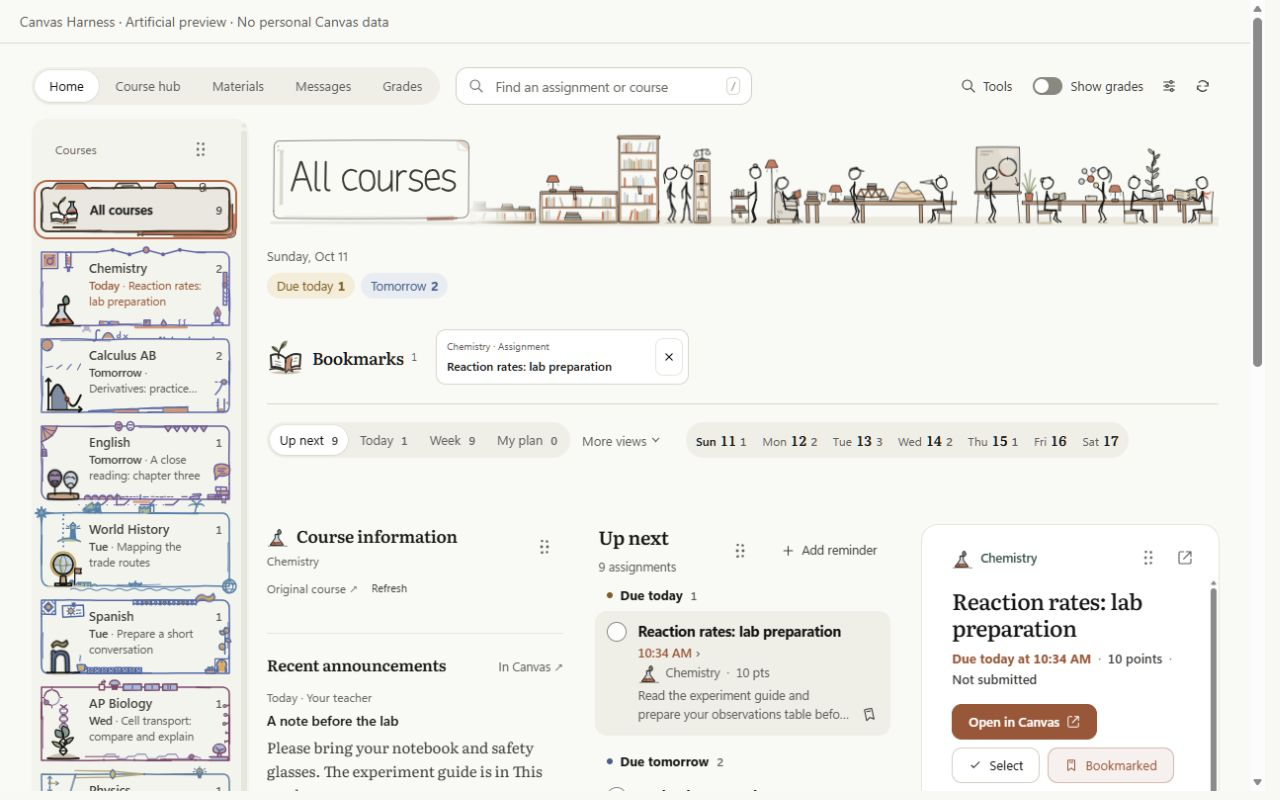
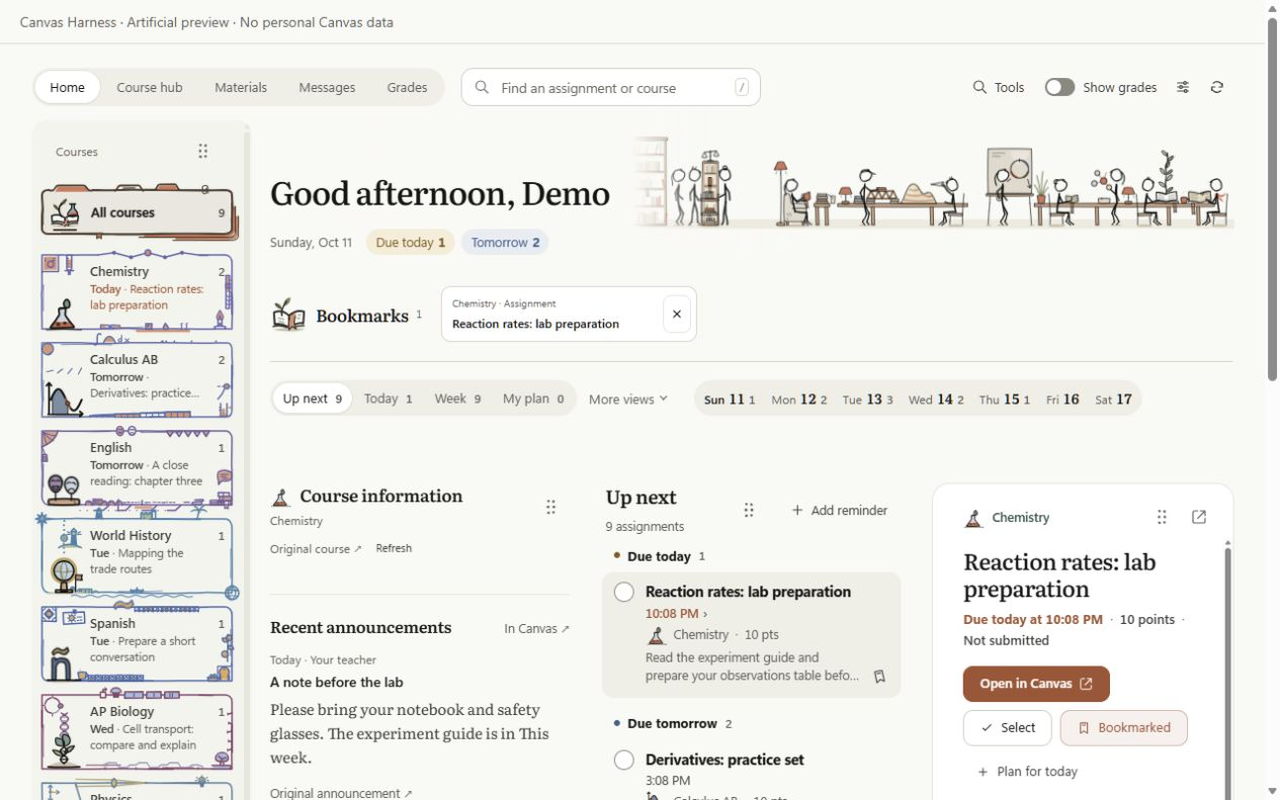
Restore time-of-day overview greetings while keeping illustrated course titles

diff --git a/extension/popup.html b/extension/popup.html
@@ -1,2 +1,2 @@
 <!doctype html><html lang="en"><head>
-<meta name="author" content="Flzsh"><meta charset="UTF-8"><meta name="viewport" content="width=device-width,initial-scale=1"><title>Canvas Harness</title><link rel="stylesheet" href="popup.css"></head><body><header><img src="icon.svg" width="42" height="42" alt=""><div><h1>Canvas Harness</h1><p>Canvas, within reach.</p></div></header><p class="intro">Direct links to your assignments, grades, and course files. Planning tools are there when you need them.</p><label class="school-url">Canvas address<input id="school-url" type="url" placeholder="https://your-school.instructure.com" autocomplete="url" spellcheck="false"></label><button id="open">Open Canvas dashboard ↗</button><button id="canvas" class="secondary">Open original Canvas</button><label><input id="enabled" type="checkbox"> Enable Canvas Harness on Canvas</label><p id="status" role="status">Changes apply after reloading Canvas.</p><details class="native-appearance"><summary>Canvas page appearance</summary><label>Theme<select data-native="theme" disabled><option value="original">Canvas original</option><option value="light">Light</option></select></label><label>Reading width<select data-native="readingWidth" disabled><option value="comfortable">Comfortable</option><option value="full">Full width</option></select></label><label>Assignment text<select data-native="textSize" disabled><option value="standard">Standard</option><option value="large">Larger</option></select></label><label>Link accent<select data-native="accent" disabled><option value="clay">Clay</option><option value="forest">Forest</option><option value="indigo">Iris</option><option value="ocean">Ocean</option><option value="rose">Rose</option><option value="amber">Amber</option></select></label><p>Choose Light to apply these choices. Saved for Canvas on this device. Teacher documents keep their colors.</p></details><button id="reload-extension" class="secondary">Reload Canvas Harness</button><p class="intro">After reloading the extension, refresh Canvas to activate the update.</p><footer>Canvas Harness 2.21.0<br>Notes stay in this browser. Back them up in Settings.</footer><script src="site.js"></script><script src="native-appearance.js"></script><script src="native-page.js"></script><script src="popup.js"></script></body></html>
+<meta name="author" content="Flzsh"><meta charset="UTF-8"><meta name="viewport" content="width=device-width,initial-scale=1"><title>Canvas Harness</title><link rel="stylesheet" href="popup.css"></head><body><header><img src="icon.svg" width="42" height="42" alt=""><div><h1>Canvas Harness</h1><p>Canvas, within reach.</p></div></header><p class="intro">Direct links to your assignments, grades, and course files. Planning tools are there when you need them.</p><label class="school-url">Canvas address<input id="school-url" type="url" placeholder="https://your-school.instructure.com" autocomplete="url" spellcheck="false"></label><button id="open">Open Canvas dashboard ↗</button><button id="canvas" class="secondary">Open original Canvas</button><label><input id="enabled" type="checkbox"> Enable Canvas Harness on Canvas</label><p id="status" role="status">Changes apply after reloading Canvas.</p><details class="native-appearance"><summary>Canvas page appearance</summary><label>Theme<select data-native="theme" disabled><option value="original">Canvas original</option><option value="light">Light</option></select></label><label>Reading width<select data-native="readingWidth" disabled><option value="comfortable">Comfortable</option><option value="full">Full width</option></select></label><label>Assignment text<select data-native="textSize" disabled><option value="standard">Standard</option><option value="large">Larger</option></select></label><label>Link accent<select data-native="accent" disabled><option value="clay">Clay</option><option value="forest">Forest</option><option value="indigo">Iris</option><option value="ocean">Ocean</option><option value="rose">Rose</option><option value="amber">Amber</option></select></label><p>Choose Light to apply these choices. Saved for Canvas on this device. Teacher documents keep their colors.</p></details><button id="reload-extension" class="secondary">Reload Canvas Harness</button><p class="intro">After reloading the extension, refresh Canvas to activate the update.</p><footer>Canvas Harness 2.21.1<br>Notes stay in this browser. Back them up in Settings.</footer><script src="site.js"></script><script src="native-appearance.js"></script><script src="native-page.js"></script><script src="popup.js"></script></body></html>

diff --git a/extension/dashboard-view.js b/extension/dashboard-view.js
@@ -187,9 +187,10 @@ if(typeof module==='object'&&module.exports&&!globalThis.ReserveSite)require('./
   // The course name as artwork (2.17): where the course's subject has a title piece and its title is the name the
   // piece spells (course-art.js titled(): never a renamed course), the piece stands at the band's left, as tall as
   // the band, and the detail line and chips sit under its floor (refresh.css 4.2). Its frame is the heading's last
-  // child and the h1 stays in the page, hidden only visually and only where the piece shows. All courses has none.
+  // child and the h1 stays in the page, hidden only visually and only where the piece shows.
+  // All courses keeps its time-based greeting unless the student explicitly supplies overview title artwork.
   function headingLinks(course){const href=(globalThis.ReserveSite.origin()+"/courses/")+course.id;return `<span class="rd-heading-links"><a class="rd-course-cover" href="${href}" title="${E(course.name)} in Canvas">Canvas home <span aria-hidden="true">↗</span></a><span aria-hidden="true"> · </span><a href="${href}/modules">Modules</a><span aria-hidden="true"> · </span><a href="${href}/assignments">Assignments</a></span>`;}
-  function heading(){const course=state.courseId==='all'?null:c.courseMap.get(state.courseId)||null,line=detail(course),hello=course?'':greeting(),nameArt=course||overviewArt,named=nameArt&&art?.titleFrame?art.titleFrame(nameArt,{place:'heading'}):'';return `<div class="rd-workspace-heading" data-rd-key="heading"${course?` style="${tone(course.color)}"`:''}><div class="rd-course-heading"${named?` data-titled="true" style="${art.titleStyle?.(nameArt)||''}"`:''}><span class="rd-heading-art" aria-hidden="true">${scene(course||overviewArt,'heading')}</span><h1${course?` title="${E(full(course))}"`:''}>${course?unbreak(E(short(course))):hello?`${E(hello)}<span class="rd-sr-only"> — your work</span>`:'Your work'}</h1>${workCourseFilter()}<p>${line?`<span class="rd-heading-detail">${E(line)}</span><span aria-hidden="true"> · </span>`:''}<span class="rd-heading-date">${E(formatDate(c.now,c.s.timeZone,{weekday:'long',month:'short',day:'numeric'}))}</span>${course?`<span aria-hidden="true"> · </span>${headingLinks(course)}`:''}</p>${glance()}${named}</div>${search}</div>`;}
+  function heading(){const course=state.courseId==='all'?null:c.courseMap.get(state.courseId)||null,line=detail(course),hello=course?'':greeting(),overviewTitle=overviewArt.artPrefs?.titleArt||(overviewArt.artPrefs?.bannerArt&&overviewArt.artPrefs?.titlePlacement==='banner'),nameArt=course||(overviewTitle?overviewArt:null),named=nameArt&&art?.titleFrame?art.titleFrame(nameArt,{place:'heading'}):'';return `<div class="rd-workspace-heading" data-rd-key="heading"${course?` style="${tone(course.color)}"`:''}><div class="rd-course-heading"${named?` data-titled="true" style="${art.titleStyle?.(nameArt)||''}"`:''}><span class="rd-heading-art" aria-hidden="true">${scene(course||overviewArt,'heading')}</span><h1${course?` title="${E(full(course))}"`:''}>${course?unbreak(E(short(course))):hello?`${E(hello)}<span class="rd-sr-only"> — your work</span>`:'Your work'}</h1>${workCourseFilter()}<p>${line?`<span class="rd-heading-detail">${E(line)}</span><span aria-hidden="true"> · </span>`:''}<span class="rd-heading-date">${E(formatDate(c.now,c.s.timeZone,{weekday:'long',month:'short',day:'numeric'}))}</span>${course?`<span aria-hidden="true"> · </span>${headingLinks(course)}`:''}</p>${glance()}${named}</div>${search}</div>`;}
   // These controls belong to pane headers. Teacher links and selected text remain untouched.
   function layoutTools(key){return root.ReserveWorkspaceArrange?.controls(key)||'';}
   function arrangeGuide(){return `<div class="rd-arrange-guide" data-rd-key="arrange-guide" data-open="${!!c.arrangeOpen}"><span id="rd-move-help" class="rd-sr-only">Hold a heading or course to move it. Move across another panel to swap; move to its top or bottom to stack. Space on a heading grip, or Alt+Space on a course, picks it up. Arrows choose a place. Tab chooses another panel. Enter places; Escape cancels.</span><div>${c.hasLayoutUndo?action('arrange-undo','Undo move','','rd-text-button'):''}${c.s.showCourseInformation===false?action('arrange-restore','Show course information','','rd-text-button'):''}</div></div>`;}

diff --git a/extension/responsive-layout.css b/extension/responsive-layout.css
@@ -424,6 +424,22 @@
   }
 }
 
+/* An overview greeting does not repeat the Course selector's label. Keep it
+   visible when tablet layout or a dock replaces the rail with that selector.
+   Individual course headings have a title attribute; overview greetings do not. */
+.rd[data-workspace=work] .rd-workspace-heading > .rd-course-heading:not([data-titled]) > h1:not([title]) {
+  position: relative;
+  width: auto;
+  height: auto;
+  margin: 0;
+  padding: 0;
+  overflow: visible;
+  clip: auto;
+  clip-path: none;
+  white-space: normal;
+  border: 0;
+}
+
 /* The search should not cost a second narrow text column, and the title piece
    is allowed to use the header width at phone sizes. The existing drawer,
    keyboard focus rules and SVG animation settings remain in charge. */

diff --git a/README.md b/README.md
@@ -46,7 +46,7 @@ Circles select items. **Archive** marks selected assignments done locally; **Boo
 
 ## Make the artwork yours
 
-Canvas Harness automatically matches course names and familiar codes to **22 subject presets**. They cover mathematics, sciences, English, writing, reading, languages, and history, with AP science and Calculus AB/BC variants. Unfamiliar subjects receive a general illustration and a simple sketched outline. Names without matching title artwork receive a reusable illustrated label, including renamed courses and All courses.
+Canvas Harness automatically matches course names and familiar codes to **22 subject presets**. They cover mathematics, sciences, English, writing, reading, languages, and history, with AP science and Calculus AB/BC variants. Unfamiliar subjects receive a general illustration and a simple sketched outline. Individual courses without matching title artwork receive a reusable illustrated label with their displayed course name. All courses welcomes you with a greeting that changes with the time of day, beside its overview artwork.
 
 Upload animated SVG banners, icons, borders, and custom titles for individual courses or All courses. Your uploads take priority over the bundled artwork.
 
@@ -61,7 +61,7 @@ The included [artwork skill](skills/canvas-harness-art/SKILL.md) helps an AI ass
 
 Try the [astronomy example pack](skills/canvas-harness-art/examples/astronomy/astronomy.chpack) by mapping it to a course in the preview before applying. Quick Upload bundles banners, icons, and borders. If the banner includes its drawn name, choose **Course artwork → Course title → Already drawn in banner** to avoid a second title over it. Separate title SVGs use the individual uploader.
 
-Download the [artwork skill ZIP](https://github.com/Flzsh/canvas-harness/releases/download/v2.21.0/Canvas-Harness-Art-Skill-2.21.0.zip), or use its folder in the repository. It is separate from the extension install ZIP. See [Themes and artwork](docs/THEMES.md) for the complete workflow, motion controls, and upload limits.
+Download the [artwork skill ZIP](https://github.com/Flzsh/canvas-harness/releases/download/v2.21.1/Canvas-Harness-Art-Skill-2.21.1.zip), or use its folder in the repository. It is separate from the extension install ZIP. See [Themes and artwork](docs/THEMES.md) for the complete workflow, motion controls, and upload limits.
 
 ## Move courses and panels directly
 

diff --git a/docs/TESTING.md b/docs/TESTING.md
@@ -1,6 +1,6 @@
-# Release checks — Canvas Harness 2.21.0
+# Release checks — Canvas Harness 2.21.1
 
-The public suite passes **498 tests**, with no failures. The standard command skips two optional isolated browser tests. JavaScript syntax, manifest resources, icon dimensions, package contents, and the artwork skill's 27 pack-format cases also pass.
+The public suite passes **499 tests**, with no failures. The standard command skips two optional isolated browser tests. JavaScript syntax, manifest resources, icon dimensions, package contents, and the artwork skill's 27 pack-format cases also pass.
 
 These checks include account and school separation; selected-only AI context; queued saves and archive Undo; repeated Send, permission denial, cancellation and late completion; bounded PDF processing; Quick Upload validation, mapping, atomic Apply and guarded Undo; bookmarks; GPA rules; layout persistence; hold delay, cancellation, sideways swaps, stacking, and preservation of a moving course's frame.
 
@@ -9,6 +9,7 @@ These checks include account and school separation; selected-only AI context; qu
 The public preview uses artificial courses, assignments and grades. An Edge walkthrough checked:
 
 - Illustrated titles and banners at 320, 390, 800, 1280, 1920, 2560 and 3840 CSS pixels, without horizontal overflow.
+- The restored All courses greeting at 390, 800, 1280 and 1920 CSS pixels. Time-zone tests cover morning, afternoon, evening and late-night greetings; individual course names and uploaded overview titles remain intact.
 - Assignment-first reading order on narrow screens, and full banner width on large screens.
 - Bookmark visibility in All courses and the corresponding subject.
 - The Tools dock beside coursework and an actual loaded Desmos graphing calculator.

diff --git a/INSTALL.md b/INSTALL.md
@@ -1,10 +1,10 @@
-# Install Canvas Harness 2.21.0
+# Install Canvas Harness 2.21.1
 
 Canvas Harness is a browser extension for your signed-in Canvas courses, assignments, bookmarks, artwork and study tools. It is designed for desktop Chrome and Edge.
 
 ## Install in desktop Chrome or Edge
 
-1. Download a **Canvas-Harness-2.21.0.zip** package from [GitHub Releases](https://github.com/Flzsh/canvas-harness/releases) if one is available, or download the [source repository](https://github.com/Flzsh/canvas-harness).
+1. Download a **Canvas-Harness-2.21.1.zip** package from [GitHub Releases](https://github.com/Flzsh/canvas-harness/releases) if one is available, or download the [source repository](https://github.com/Flzsh/canvas-harness).
 2. Extract the download to a folder you will keep. For the packaged extension, use its extracted folder containing `manifest.json`. For a source-repository download, use its `extension` subfolder.
 3. Open `chrome://extensions` or `edge://extensions` in the browser.
 4. Turn on **Developer mode**, choose **Load unpacked**, and select the folder containing `manifest.json`.

diff --git a/docs/THEMES.md b/docs/THEMES.md
@@ -20,7 +20,7 @@ Use **Show grades** separately when you want grades visible. Leaving it off hide
 
 The 22 automatic subject presets match familiar course names and codes. When a course has no matching subject preset, it uses a general illustration and a single sketched frame. If its displayed name has no matching title drawing, a generic illustrated label preserves that name.
 
-All courses has its own overview artwork. Uploaded course artwork takes priority.
+All courses keeps its time-of-day greeting beside the overview artwork. Generic illustrated labels are used for individual course names. An explicitly uploaded overview title takes priority; uploading only an overview banner keeps the greeting.
 
 Choose **Living drawings → Off** to stop the bundled drawings' ongoing ambient movement. Motion settings also control transitions and reveals; the animation-off and reduced-motion paths use static artwork. Imported drawings retain their own palette. Choose artwork with readable contrast against the paper surface.
 

diff --git a/docs/store/README.md b/docs/store/README.md
@@ -12,7 +12,7 @@ Use a public publisher name such as **Flzsh**. Check which contact details each 
 ## Upload
 
 - Run `npm test`, `npm run check`, and `npm run build` from the repository.
-- Upload `dist/Canvas-Harness-2.21.0.zip`. Its `manifest.json` is at the ZIP root. Do not upload the source repository, a personal backup, or the separate Folio test build.
+- Upload `dist/Canvas-Harness-2.21.1.zip`. Its `manifest.json` is at the ZIP root. Do not upload the source repository, a personal backup, or the separate Folio test build.
 - Use [listing.txt](listing.txt) for the description and links. Enter the manifest's actual description where the store derives the short description from the package.
 - Use `icon-128.png` for Chrome and `logo-300.png` for Edge. Both come from the original large Canvas Harness logo.
 - Use `promo-440x280.png` for the small promotional image.
